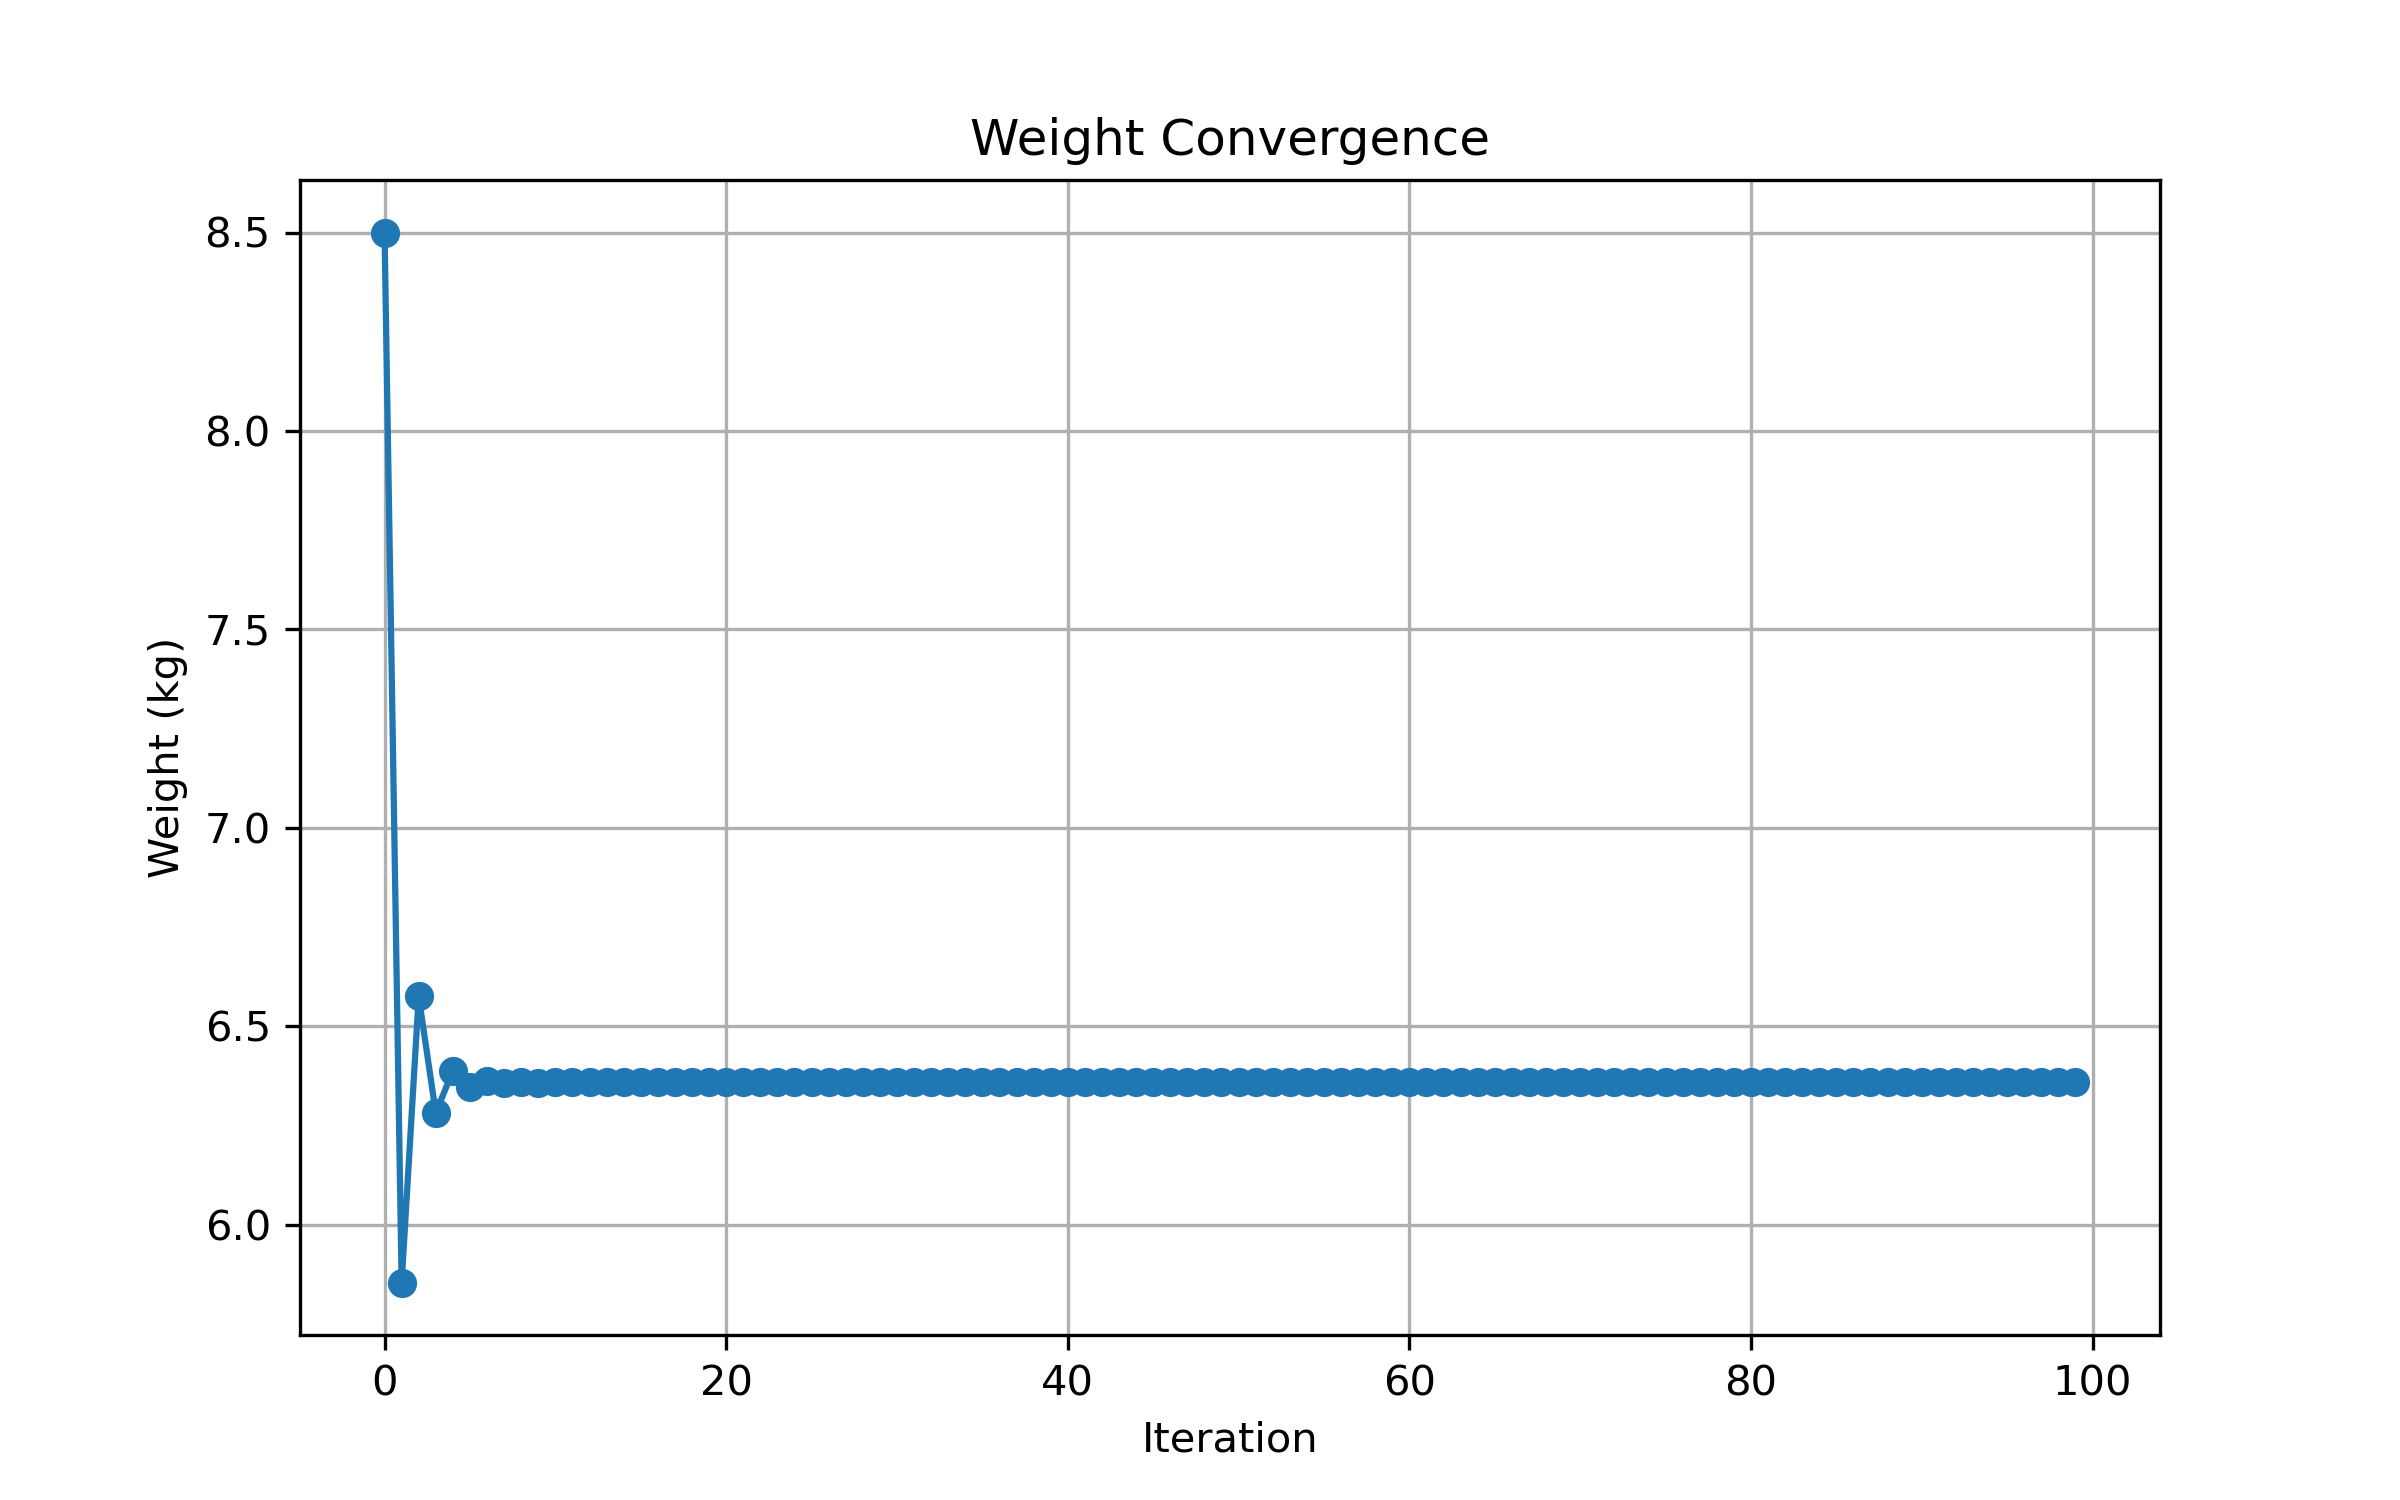
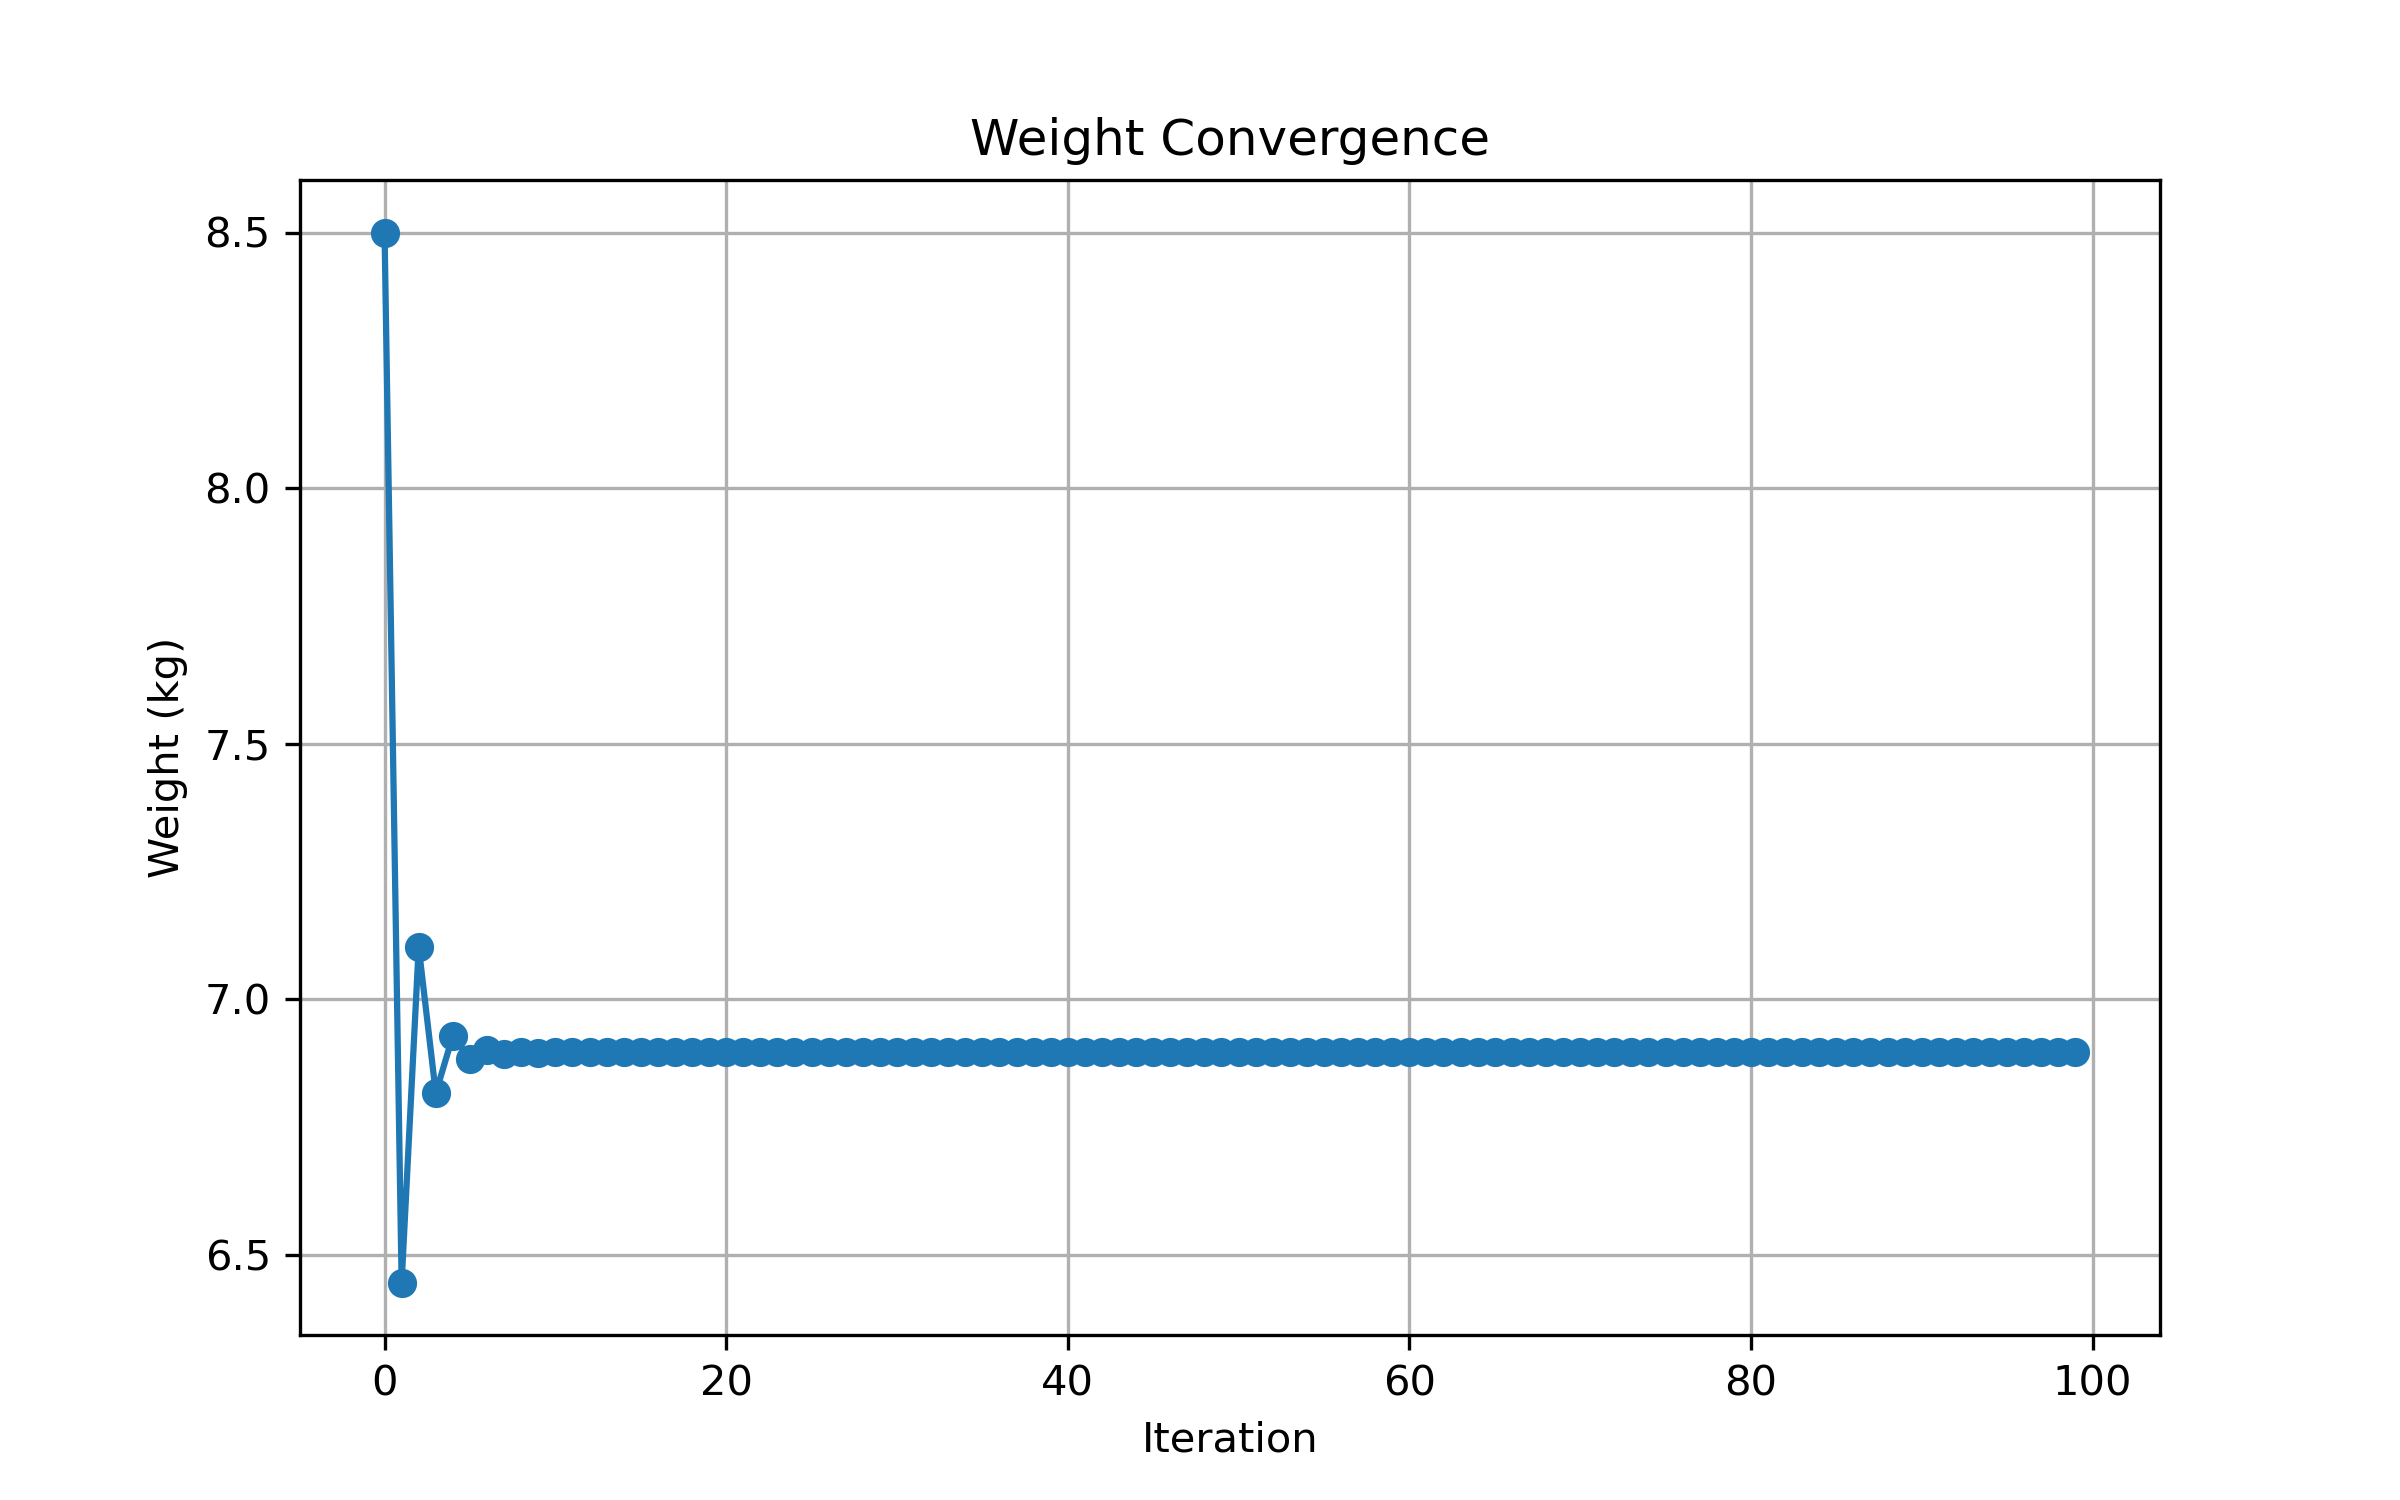
Updated figure

diff --git a/Week_2/Codes/weight_estimation.py b/Week_2/Codes/weight_estimation.py
@@ -157,7 +157,7 @@ for _ in range(100):
 
     W_b = Total_energy(W_0*g) / energy_density
 
-    W_0 = (payload_mass / (1 - (W_b/W_0) - a*W_0**L)).item()
+    W_0 = (payload_mass / (1 - (1.2*W_b/W_0) - a*W_0**L)).item()
 
 
 final_weight = Weight_array[-1]
